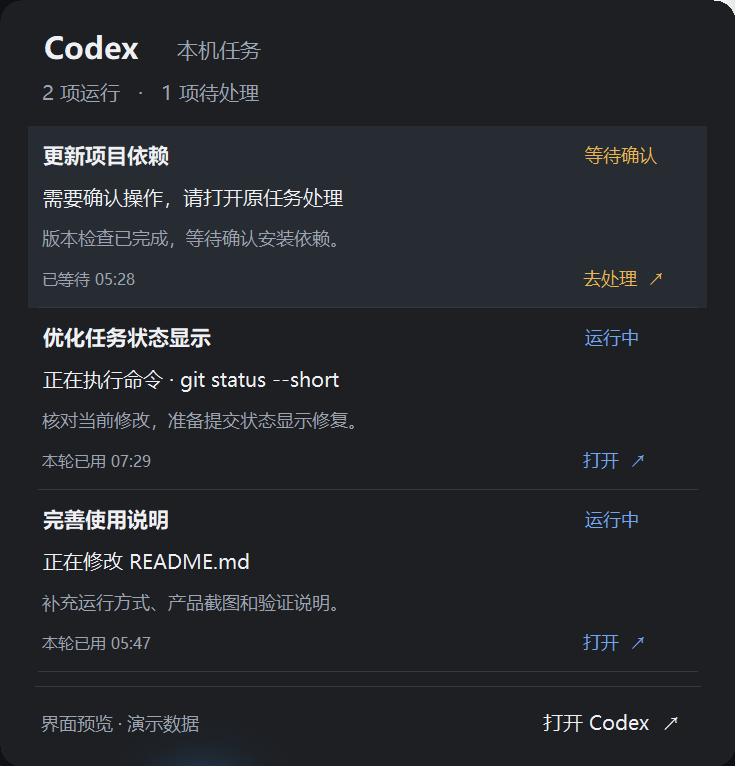
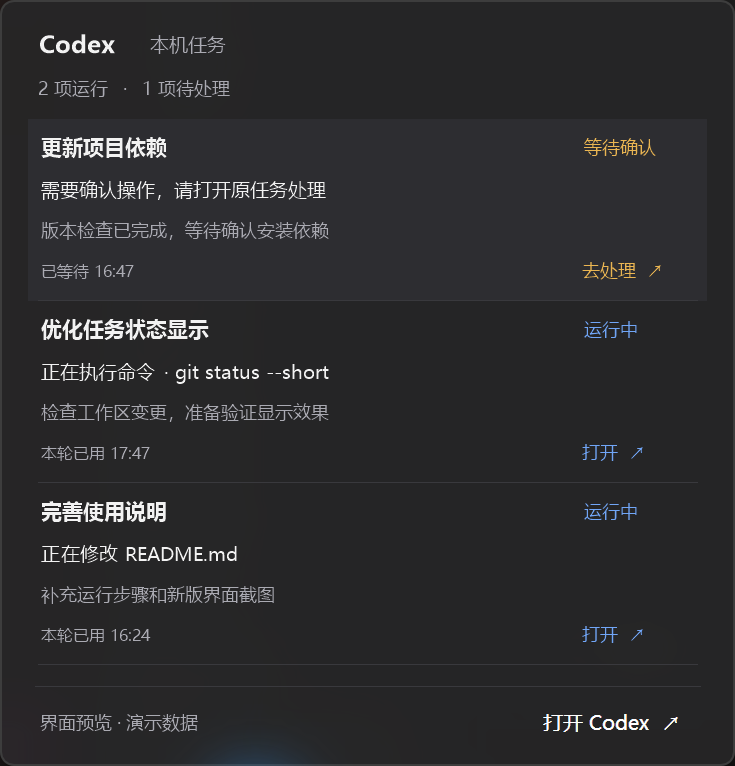
Refine taskbar indicator and native dark task flyout

diff --git a/App.cs b/App.cs
@@ -50,11 +50,13 @@ static class Program {
 }
 
 static class Theme {
-    public static Color Bg=Color.FromArgb(29,31,35),Text=Color.FromArgb(238,240,243),Muted=Color.FromArgb(156,164,177),Line=Color.FromArgb(52,56,63);
+    public static Color Bg=Color.FromArgb(32,32,34),Text=Color.FromArgb(242,242,242),Muted=Color.FromArgb(170,170,178),Line=Color.FromArgb(57,57,61);
     public static Color Accent(string tone) {return tone=="amber"?Color.FromArgb(235,182,82):tone=="red"?Color.FromArgb(245,119,126):tone=="blue"?Color.FromArgb(113,166,247):Muted;}
-    public static Font Font(float pixels,bool bold=false) {return new Font("Microsoft YaHei UI",pixels,bold?FontStyle.Bold:FontStyle.Regular,GraphicsUnit.Pixel);}
+    public static Font Font(float pixels,bool bold=false) {return new Font(SystemFonts.MessageBoxFont.FontFamily,pixels,bold?FontStyle.Bold:FontStyle.Regular,GraphicsUnit.Pixel);}
+    public static bool Transparency {get{using(var key=Registry.CurrentUser.OpenSubKey("Software\\Microsoft\\Windows\\CurrentVersion\\Themes\\Personalize"))return !SystemInformation.HighContrast && (key==null || Convert.ToInt32(key.GetValue("EnableTransparency",1))!=0);}}
     public static void TextAt(Graphics g,string text,Font font,Color color,Rectangle rect,bool wrap=false) {
-        TextRenderer.DrawText(g,text??"",font,rect,color,TextFormatFlags.NoPrefix|TextFormatFlags.EndEllipsis|(wrap?TextFormatFlags.WordBreak:TextFormatFlags.SingleLine)|TextFormatFlags.VerticalCenter);
+        g.TextRenderingHint=System.Drawing.Text.TextRenderingHint.AntiAliasGridFit;
+        using(var brush=new SolidBrush(color))using(var format=new StringFormat{LineAlignment=StringAlignment.Center,Trimming=StringTrimming.EllipsisCharacter,FormatFlags=wrap?0:StringFormatFlags.NoWrap})g.DrawString(text??"",font,brush,rect,format);
     }
     public static void Round(Form form,int radius) {
         using(var path=new GraphicsPath()) {
@@ -87,7 +89,7 @@ class Peek : Form {
     public Peek(bool openAtStart=false,View preview=null) {
         Preview=preview!=null;
         Text="Codex Peek";AccessibleName="Codex 状态栏";FormBorderStyle=FormBorderStyle.None;ShowInTaskbar=Review;TopMost=true;StartPosition=FormStartPosition.Manual;
-        AutoScaleMode=AutoScaleMode.None;BackColor=Theme.Bg;DoubleBuffered=true;Cursor=Cursors.Hand;Size=new Size(320,40);
+        AutoScaleMode=AutoScaleMode.None;BackColor=Theme.Bg;DoubleBuffered=true;Cursor=Cursors.Hand;Size=new Size(320,40);Opacity=Theme.Transparency?.92:1;
         appIcon=MakeIcon();Icon=appIcon;tray.Icon=appIcon;tray.Text="Codex Peek";tray.Visible=true;
         var menu=new ContextMenuStrip();menu.Items.Add("查看本机任务",null,(s,e)=>Toggle());menu.Items.Add("打开 Codex",null,(s,e)=>OpenTask(null));menu.Items.Add(new ToolStripSeparator());menu.Items.Add("退出 Codex Peek",null,(s,e)=>Close());
         menu.ShowImageMargin=false;menu.ForeColor=Theme.Text;menu.Renderer=new ToolStripProfessionalRenderer(new MenuColors());
@@ -161,8 +163,9 @@ class Peek : Form {
     }
     protected override void OnPaint(PaintEventArgs e) {
         e.Graphics.Clear(hover?Color.FromArgb(42,45,51):Theme.Bg);
-        using(var brush=new SolidBrush(Theme.Accent(Data.tone)))e.Graphics.FillRectangle(brush,S(9),S(10),S(2),Height-S(20));
-        using(var font=Theme.Font(S(12),true))Theme.TextAt(e.Graphics,Data.headline,font,Theme.Text,new Rectangle(S(19),S(3),Width-S(29),S(20)));
+        e.Graphics.SmoothingMode=SmoothingMode.AntiAlias;
+        using(var brush=new SolidBrush(Theme.Accent(Data.tone)))e.Graphics.FillEllipse(brush,S(10),S(11),S(4),S(4));
+        using(var font=Theme.Font(S(12)))Theme.TextAt(e.Graphics,Data.headline,font,Theme.Text,new Rectangle(S(19),S(3),Width-S(29),S(20)));
         using(var font=Theme.Font(S(10)))Theme.TextAt(e.Graphics,Data.quotaText,font,Theme.Muted,new Rectangle(S(19),S(22),Width-S(29),S(14)));
     }
     public void Toggle() {
@@ -186,26 +189,40 @@ class Peek : Form {
 }
 
 class Flyout : Form {
-    readonly Peek owner;readonly Panel list=new Panel();readonly Button open=new Button();readonly Label empty=new Label();
-    string ids="";bool layingOut;Font footerFont,emptyFont;
+    readonly Peek owner;readonly Panel list=new Panel();readonly Button open=new Button();readonly Label empty=new Label(),hint=new Label();
+    string ids="";bool layingOut,backdrop;Font footerFont,emptyFont,hintFont;
+    // Limit background brightness so secondary text remains readable over Acrylic.
+    public Color Surface {get{return backdrop?Color.FromArgb(220,Theme.Bg):Theme.Bg;}}
     int S(float v){return owner.S(v);}
     public Flyout(Peek parent) {
         owner=parent;Text="Codex 本机任务";AccessibleName=Text;AutoScaleMode=AutoScaleMode.None;FormBorderStyle=FormBorderStyle.None;ShowInTaskbar=Peek.Review;StartPosition=FormStartPosition.Manual;TopMost=true;BackColor=Theme.Bg;DoubleBuffered=true;KeyPreview=true;
         list.AutoScroll=true;list.BackColor=Theme.Bg;Controls.Add(list);
-        empty.TextAlign=ContentAlignment.MiddleCenter;empty.ForeColor=Theme.Muted;empty.BackColor=Theme.Bg;list.Controls.Add(empty);
+        empty.TextAlign=ContentAlignment.MiddleCenter;empty.ForeColor=Theme.Text;empty.BackColor=Theme.Bg;list.Controls.Add(empty);
+        hint.TextAlign=ContentAlignment.MiddleCenter;hint.ForeColor=Theme.Muted;hint.BackColor=Theme.Bg;list.Controls.Add(hint);
         open.Text="打开 Codex  ↗";open.AccessibleName="打开 Codex";open.FlatStyle=FlatStyle.Flat;open.FlatAppearance.BorderSize=0;open.ForeColor=Theme.Text;open.BackColor=Theme.Bg;open.Cursor=Cursors.Hand;open.Click+=(s,e)=>owner.OpenTask(null);Controls.Add(open);
         Deactivate+=(s,e)=>Hide();VisibleChanged+=(s,e)=>{if(!Visible)owner.RestoreTooltip();};
+    }
+    // Preserve a native frame for DWM; remove its caption and resizing through client messages.
+    protected override CreateParams CreateParams {get{var cp=base.CreateParams;cp.Style|=0x00C40000;return cp;}}
+    protected override void WndProc(ref Message m) {if(m.Msg==0x83&&m.WParam!=IntPtr.Zero){m.Result=IntPtr.Zero;return;}if(m.Msg==0x84){m.Result=new IntPtr(1);return;}base.WndProc(ref m);}
+    protected override void OnHandleCreated(EventArgs e) {
+        base.OnHandleCreated(e);backdrop=Native.PopupChrome(Handle,Theme.Transparency);
+        if(backdrop){BackColor=Color.Black;list.BackColor=empty.BackColor=hint.BackColor=open.BackColor=Color.Transparent;}
+        open.FlatAppearance.MouseOverBackColor=open.FlatAppearance.MouseDownBackColor=Color.FromArgb(45,45,49);
+        Native.SetWindowPos(Handle,IntPtr.Zero,0,0,0,0,0x37);
     }
     protected override bool ProcessCmdKey(ref Message msg,Keys key){if(key==Keys.Escape){Hide();return true;}return base.ProcessCmdKey(ref msg,key);}
     public void RefreshData() {
         if(layingOut)return;layingOut=true;
         try {
             View data=owner.Data;AccessibleName="Codex 本机任务，"+data.running+" 项运行，"+data.waiting+" 项待处理";Rectangle work=Screen.FromControl(owner).WorkingArea;
-            int height=S(126+Math.Max(1,data.tasks.Length)*104);height=Math.Min(height,(int)(work.Height*.7));
+            int height=S(data.tasks.Length==0?160:126+data.tasks.Length*104);height=Math.Min(height,(int)(work.Height*.7));
             Rectangle anchor=owner.Visible?owner.Bounds:new Rectangle(Cursor.Position,new Size(1,1));
-            Bounds=Placement.Popup(anchor,work,S(420),height,S(8));Theme.Round(this,S(12));
+            Bounds=Placement.Popup(anchor,work,S(420),height,S(8));
             Point scroll=list.AutoScrollPosition;
-            list.Bounds=new Rectangle(S(16),S(72),Width-S(32),Height-S(118));
+            int top=data.tasks.Length==0?48:68;
+            int listHeight=Height-S(top+46);if(data.tasks.Length>0)listHeight=Math.Min(listHeight,data.tasks.Length*S(104));
+            list.Bounds=new Rectangle(S(16),S(top),Width-S(32),listHeight);
             open.Bounds=new Rectangle(Width-S(126),Height-S(38),S(112),S(26));
             if(footerFont==null||footerFont.Size!=S(11)){var old=footerFont;footerFont=Theme.Font(S(11));open.Font=footerFont;if(old!=null)old.Dispose();}
             string next=String.Join("|",data.tasks.Select(t=>t.id));
@@ -213,18 +230,20 @@ class Flyout : Form {
             int y=0,index=0;
             foreach(var row in list.Controls.OfType<TaskRow>()){row.Item=data.tasks[index++];row.Bounds=new Rectangle(0,y+scroll.Y,list.ClientSize.Width,S(104));row.AccessibleName=row.Item.title+"，"+row.Item.detail;row.AccessibleDescription=row.Item.progress;row.Invalidate();y+=S(104);}
             list.AutoScrollMinSize=new Size(0,y);
-            empty.Visible=data.tasks.Length==0;empty.Bounds=new Rectangle(0,0,list.ClientSize.Width,list.ClientSize.Height);empty.Text=data.connected?"暂无运行任务\n新的任务开始后会出现在这里":data.diagnostic;
+            empty.Visible=hint.Visible=data.tasks.Length==0;empty.Bounds=new Rectangle(0,S(8),list.ClientSize.Width,S(24));empty.Text=data.connected?"暂无运行任务":"状态未同步";
+            hint.Bounds=new Rectangle(0,S(34),list.ClientSize.Width,S(22));hint.Text=data.connected?"开始新任务后，执行详情会显示在这里":data.diagnostic;
             if(emptyFont==null||emptyFont.Size!=S(12)){var old=emptyFont;emptyFont=Theme.Font(S(12));empty.Font=emptyFont;if(old!=null)old.Dispose();}
+            if(hintFont==null||hintFont.Size!=S(10)){var old=hintFont;hintFont=Theme.Font(S(10));hint.Font=hintFont;if(old!=null)old.Dispose();}
             Invalidate();
         }finally{layingOut=false;}
     }
     protected override void OnPaint(PaintEventArgs e) {
-        var g=e.Graphics;g.Clear(Theme.Bg);View d=owner.Data;
-        using(var font=Theme.Font(S(17),true))Theme.TextAt(g,"Codex",font,Theme.Text,new Rectangle(S(21),S(14),S(80),S(27)));
-        using(var font=Theme.Font(S(12)))Theme.TextAt(g,"本机任务",font,Theme.Muted,new Rectangle(S(98),S(16),S(100),S(25)));
-        using(var font=Theme.Font(S(11)))Theme.TextAt(g,d.running+" 项运行   ·   "+d.waiting+" 项待处理",font,Theme.Muted,new Rectangle(S(21),S(43),Width-S(42),S(20)));
+        var g=e.Graphics;g.Clear(Surface);View d=owner.Data;
+        using(var font=Theme.Font(S(14),true))Theme.TextAt(g,"Codex",font,Theme.Text,new Rectangle(S(20),S(13),S(65),S(25)));
+        using(var font=Theme.Font(S(11)))Theme.TextAt(g,"本机任务",font,Theme.Muted,new Rectangle(S(84),S(14),S(100),S(25)));
+        if(d.tasks.Length>0)using(var font=Theme.Font(S(10)))Theme.TextAt(g,d.running+" 项运行   ·   "+d.waiting+" 项待处理",font,Theme.Muted,new Rectangle(S(20),S(41),Width-S(40),S(20)));
         using(var pen=new Pen(Theme.Line)){g.DrawLine(pen,S(20),Height-S(46),Width-S(20),Height-S(46));}
-        string sync=owner.Preview?"界面预览 · 演示数据":d.connected?"已连接 · 本机实时状态":"状态未同步";
+        string sync=owner.Preview?"界面预览 · 演示数据":d.connected?"已连接":"状态未同步";
         using(var font=Theme.Font(S(10)))Theme.TextAt(g,sync,font,Theme.Muted,new Rectangle(S(21),Height-S(36),Width-S(160),S(23)));
     }
 }
@@ -234,7 +253,7 @@ class TaskRow : Button {
     int S(float v){return owner.S(v);}
     public TaskRow(Peek parent){owner=parent;SetStyle(ControlStyles.UserPaint|ControlStyles.AllPaintingInWmPaint|ControlStyles.OptimizedDoubleBuffer,true);Cursor=Cursors.Hand;FlatStyle=FlatStyle.Flat;TabStop=true;MouseEnter+=(s,e)=>{hover=true;Invalidate();};MouseLeave+=(s,e)=>{hover=false;Invalidate();};}
     protected override void OnPaint(PaintEventArgs e) {
-        if(Item==null)return;var g=e.Graphics;g.Clear(hover||Focused?Color.FromArgb(39,43,50):Theme.Bg);
+        if(Item==null)return;var g=e.Graphics;g.Clear(hover||Focused?Color.FromArgb(45,45,49):((Flyout)FindForm()).Surface);
         string tone=Item.state=="approval"||Item.state=="input"?"amber":Item.state=="failed"?"red":"blue";
         string label=Item.state=="approval"?"等待确认":Item.state=="input"?"等待回复":Item.state=="failed"?"异常":"运行中";
         using(var font=Theme.Font(S(12),true))Theme.TextAt(g,Item.title,font,Theme.Text,new Rectangle(S(6),S(5),Width-S(92),S(23)));
@@ -251,6 +270,15 @@ class TaskRow : Button {
 }
 
 static class Native {
+    [StructLayout(LayoutKind.Sequential)]struct MARGINS {public int Left,Right,Top,Bottom;}
+    [DllImport("dwmapi.dll")]static extern int DwmSetWindowAttribute(IntPtr h,int attribute,ref int value,int size);
+    [DllImport("dwmapi.dll")]static extern int DwmExtendFrameIntoClientArea(IntPtr h,ref MARGINS margins);
+    public static bool PopupChrome(IntPtr h,bool transparency) {
+        int dark=1,round=2,border=0x3D3D3D,material=3;
+        DwmSetWindowAttribute(h,20,ref dark,4);DwmSetWindowAttribute(h,33,ref round,4);DwmSetWindowAttribute(h,34,ref border,4);
+        if(!transparency || DwmSetWindowAttribute(h,38,ref material,4)!=0)return false;
+        var margins=new MARGINS{Left=-1,Right=-1,Top=-1,Bottom=-1};return DwmExtendFrameIntoClientArea(h,ref margins)==0;
+    }
     [StructLayout(LayoutKind.Sequential)]public struct RECT {public int Left,Top,Right,Bottom;}
     [DllImport("user32.dll",CharSet=CharSet.Unicode)]public static extern IntPtr FindWindow(string cls,string title);
     [DllImport("user32.dll")]static extern bool GetWindowRect(IntPtr h,out RECT rect);

diff --git a/LayoutTests.cs b/LayoutTests.cs
@@ -1,8 +1,10 @@
 using System;
 using System.Drawing;
 class LayoutTests {
-    static void Check(bool value, string message) { if (!value) throw new Exception(message); }
+    static void Check(bool value, string message) { if (!value) { Console.Error.WriteLine("FAIL: "+message); throw new Exception(message); } }
+    [STAThread]
     static void Main() {
+        Native.SetProcessDpiAwarenessContext(new IntPtr(-4));
         Rectangle bar = new Rectangle(0,1516,2560,84);
         Rectangle rect = Placement.Widget(bar, 168, 840);
         Check(rect.Width==560 && rect.Height==70, "wider widget at 175% DPI");
@@ -13,6 +15,17 @@ class LayoutTests {
         Check(Placement.Widget(bar,168,500).Right==486,"shrinks before the first taskbar button");
         Rectangle popup=Placement.Popup(new Rectangle(2500,1516,60,70),new Rectangle(0,0,2560,1516),735,800,14);
         Check(popup.Right<=2560 && popup.Bottom<=1516 && popup.Left>=0,"flyout stays on screen");
+        using(var owner=new Peek()) using(var flyout=new Flyout(owner)) {
+            owner.Data=View.Offline();owner.DpiScale=1.75f;
+            flyout.RefreshData();
+            Check(flyout.Height==280,"empty flyout is compact at 175% DPI");
+            owner.Data.tasks=new[]{new TaskItem{id="a"}};
+            flyout.RefreshData();
+            Check(flyout.Height==402,"active flyout retains room for task details at 175% DPI");
+            owner.Data=View.Offline();owner.DpiScale=1;
+            flyout.RefreshData();
+            Check(flyout.Height==160,"empty flyout is compact at 100% DPI");
+        }
         Console.WriteLine("PASS: native layout, 100% / 175% DPI, taskbar collision and popup bounds");
     }
 }

diff --git a/docs/validation.md b/docs/validation.md
@@ -1,6 +1,6 @@
 # 验证记录与已知限制
 
-记录日期：2026-09-30。以下是开发机的观测记录，不代表任意 Windows 机器上的保证。
+记录日期：2026-10-01。以下是开发机的观测记录，不代表任意 Windows 机器上的保证。
 
 ## 当前源码与在用程序
 
@@ -8,21 +8,28 @@
 | --- | --- |
 | C# WinForms 旧版，248 × 40 DIP | 已在 Windows 11、175% 缩放下验证真实显示、展开、收起、两次冷启动、重复启动与正常退出；两次主进程退出码均为 0，Node 子进程结束 |
 | Node 数据组件 | 13 项测试通过，覆盖事件归纳、流式回复摘要、工具动作标题、命令内容、重置倒计时、空闲任务标题、等待优先级、失效状态及命名管道传输 |
-| C# 当前源码，320 × 40 DIP | 加宽与状态悬停提示已实现、编译成功；新 EXE 在开发机启动时被 Windows 应用控制策略拦截，尚未部署到日常入口 |
-| 当前原生布局测试 | 已更新 100% / 175% 尺寸和空间不足时避让的断言；开发机上的新测试 EXE 同样被策略拦截，不能声称本机运行通过 |
+| C# 当前源码，320 × 40 DIP | 本次最终 EXE 已启动并复制到项目根目录，使用原快捷方式再次启动；实机预览检查状态点、紧凑空闲布局、三任务列表、系统圆角和深色 Acrylic |
+| 当前原生布局测试 | 空闲高度先红后绿；本机曾通过 100% / 175% 空闲高度、175% 活跃高度及避让检查。最后一次构建的新测试 EXE 被策略拦截，最终应用 EXE 可以启动；最终源码的全套测试仍需结合 CI 结果检查 |
+| 本次启动和交互 | 根目录版本接入实时数据；重复启动退出码为 0，保持一份应用和一份数据组件；Escape 收起、Tab 在任务间移动。可观察窗口模式下关闭主窗后，数据组件结束 |
 | 开机自启 | 未配置；启动文件夹、Run 注册表和计划任务中未发现此工具的自启项 |
 
-开发机在用旧版 EXE 的 SHA-256：
+开发机在用本次新版 EXE 的 SHA-256：
 
 ```text
[2 lines of base64/hex data omitted]
 ```
 
-这个文件曾被策略拦截，后续在安全设置未改变时可以运行。前后差异的原因尚未确认。新构建需要独立验收，不能沿用旧文件结果。仓库不提交该二进制，也不声称当前源码会重建出上述旧文件。
[1 lines of base64/hex data omitted]
+
+新文件的信任判定为何不同仍未确认。最终应用可运行不代表每次本地重编译后的文件都会获准运行。新构建需要独立验收，不能沿用旧文件结果。仓库不提交这些二进制；编译器会生成不同的文件标识，不承诺重建出相同 SHA-256。
 
 ## 已核验与尚未核验
 
 旧版在实际 2560 × 1600 桌面、175% 缩放时，任务栏高 84 个物理像素；组件为 434 × 70，位于任务栏现有空间中。额度倒计时和空闲标题已检查实际显示。多任务／等待确认排版使用演示数据验证，未为了测试而制造真实审批操作。
+
+本次新版在相同桌面上，入口为 560 × 70，位置为 `(14,1523)`，保留任务栏现有高度。空闲弹窗为 735 × 280；三任务面板为 735 × 766。无损原生截图用于 README，内容全部为演示数据。先尝试系统 Acrylic，再增加深色底层限制亮背景对次要文字的影响；确认系统圆角、细边框与背景透色，未将 API 返回成功当作视觉验收。
+
+实际缩放下的操作和截图使用 `--review` 暴露窗口以便观察；日常快捷方式不带该参数，不增加 Alt-Tab 窗口。启动快捷方式后已确认主程序和 Node 数据组件均从 `CodexPeek` 根目录运行。
 
 内容摘要更新复用旧版 EXE：实机显示实时工具动作标题，回复摘要用明确的演示任务检查排版；流式回复文字改变时的视图更新由快照和增量事件回归测试验证。该次更新只涉及 JavaScript 数据组件，无需重新编译 C#。
 

diff --git a/docs/design.md b/docs/design.md
@@ -27,7 +27,11 @@
 
 ## 窗口与交互
 
-使用免激活的独立 WinForms 小窗贴在主屏任务栏左侧空白区域。源码目标为 320 × 40 DIP，按可用空间收窄；不足 180 DIP 时退到托盘。展开面板宽 420 DIP，高度随任务数量变化，最多占可用屏幕高度的 70%。
+使用免激活的独立 WinForms 小窗贴在主屏任务栏左侧空白区域。入口为 320 × 40 DIP，按可用空间收窄；不足 180 DIP 时退到托盘。展开面板宽 420 DIP，空闲高度为 160 DIP，有任务时按任务数量展开，最多占可用屏幕高度的 70%。
+
+入口的小圆点仅表示状态：蓝色运行、黄色等待确认或回复、红色异常、灰色空闲或未同步，不表示额度、进度或重置次数。接口没有提供历史重置次数，当前没有新增重置计数。
+
+入口使用系统消息字体、常规字重和轻微透明底色。面板通过 DWM 使用原生圆角、边框及 Acrylic；深色底层限制背景亮度，保持次要文字可读。关闭系统透明效果或启用高对比度时，启动时使用实色背景；不支持系统材质时也使用实色背景。空闲面板省略零任务计数，连接信息简化为“已连接”。
 
 点击展开、Escape / 失焦收起，点击任务通过 `codex://threads/<id>` 打开原会话。批准操作和回复用户问题始终在 Codex 中完成。首版没有机器人、自动审批、远程设备汇总或开机自启。
 
